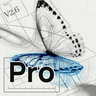
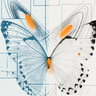
feat(models): MiMo V2.6 Pro / Flash 换成两只不写字的蝴蝶
用户 2026-10-25 看过对比图后定：「上一版的作为 pro，当前版的作为 flash，然后把 pro 和 flash 的字体移除掉」
「yes, switch」。

- Pro：V2.6 横幅里的正面蝴蝶（橙色翼尖），沿用 tools/mimo_label.py 的 base()：抹掉压在左翼上的「v2.6」与底边
  半截「2.6」后按蝴蝶裁方——就是登记页里「横幅蝴蝶版（上一版）」那枚去掉字。
- Flash：V2.6 推文封面的侧面蓝翼蝴蝶（cover_avatars.py 的 mimo-v2.6-cover 裁法），去掉左下角画上去的 Flash 字样。
- 两枚靠颜色与姿态区分，16px 下也分得开；原来叠的 Pro / Flash 字样在 20px 以下读不出。
  封面那枚左上角还留着官方原图里的「V2.6」小标，没有抹。

只换素材文件与注释，型号 → 头像的登记不变。

Made-with: Orbita

diff --git a/src/renderer/src/features/settings/ModelAvatar.tsx b/src/renderer/src/features/settings/ModelAvatar.tsx
@@ -33,8 +33,10 @@ import { VendorLogo } from "./VendorLogo";
  * - 公众号封面（推文在微信列表里显示的封面图，不是正文里的图；原件与裁切脚本在本地登记页
  *   docs/model-avatars/tools/）：kimi-k3（磁感线）、glm-5.3（数字三角）、glm-5.3-flash（光锥）、
  *   deepseek-v4.1-flash（抹掉封面上的字，鲸鱼标放进金色光环）、deepseek-v4-pro（标题下的
- *   橙紫波浪 + 同一枚鲸鱼标）、step-5-preview（大「5」）、mimo-v2.6-*（封面蝴蝶，左下角按封面的细框 + 刻度尺画 Pro / Flash，
- *   不铺底色；字体 Manrope，OFL）。
+ *   橙紫波浪 + 同一枚鲸鱼标）、step-5-preview（大「5」）、mimo-v2.6-*（两只蝴蝶，不写字——2026-10-25 用户：「上一版的作为 pro，
+ *   当前版的作为 flash，然后把 pro 和 flash 的字体移除掉」：Pro 用 V2.6 横幅里的正面蝴蝶（橙色翼尖），抹掉压在左翼的
+ *   「v2.6」；Flash 用 V2.6 推文封面的侧面蓝翼蝴蝶。两枚靠颜色与姿态区分，16px 下也分得开，原来的 Pro / Flash
+ *   字样在 20px 以下读不出）。
  * - gpt-astra / gpt-sol / gpt-luna：developers.openai.com 模型页三张旗舰横幅的无字底图（/images/api/models/
  *   <id>-texture.webp）——把星系、太阳、月亮抠出来缩到方图约三分之一，放在同图取样的星空底上；
  *   月亮在原图里被右缘切掉一截，按左半镜像补成整轮（2026-10-25 用户：「月亮和太阳的占比放小一点」）；
